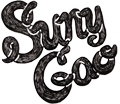
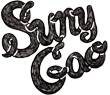
about page

diff --git a/www/styles/master.css b/www/styles/master.css
@@ -17,7 +17,7 @@
 
 .truncate { overflow: hidden; text-overflow: ellipsis; white-space: nowrap; }
 
-.buttons-sprite, #menu h1 a, #menu #email, #menu #linked_in, #main-content #projects .description h3 a span, #main-content #projects .description h3 a:hover span { background: url('../media/images/buttons-s6d212eed9d.png') no-repeat; }
+.buttons-sprite, #menu h1 a, #menu #email, #menu #linked_in, #main-content #projects .description h3 a span, #main-content #projects .description h3 a:hover span { background: url('../media/images/buttons-se1d3f7d20a.png') no-repeat; }
 
 /* http://meyerweb.com/eric/tools/css/reset/  v2.0 | 20110126 License: none (public domain)
 */
@@ -36,7 +36,7 @@ blockquote:before, blockquote:after, q:before, q:after { content: ''; content: n
 
 table { border-collapse: collapse; border-spacing: 0; }
 
-a { text-decoration: none; }
+a { font-family: "Crimson Text", serif; font-weight: 700; color: #fff; text-decoration: none; }
 
 body, html, #page-wrapper, #global-header { height: 100%; }
 
@@ -46,17 +46,17 @@ body ::selection { background: #6fbbda; }
 body, #menu { min-height: 690px; }
 
 #menu { background: transparent url(../media/images/bkg_menu.png) repeat; height: 100%; left: 0; padding: 0px 10px; z-index: 2; position: absolute; width: 110px; }
-#menu h1 a { background-position: 0 0; width: 120px; height: 104px; cursor: pointer; margin: 20px 0 0 -2px; }
+#menu h1 a { background-position: 0 0; width: 110px; height: 95px; cursor: pointer; margin: 20px auto 0; }
 #menu #nav { text-align: right; }
 #menu #nav a { font-family: "Crimson Text", serif; font-weight: 600; display: block; font-size: 123%; color: #242424; margin-top: 25px; }
 #menu #nav li li a { color: #777; font-size: 93%; margin-top: 15px; line-height: 130%; }
 #menu #nav li li a:hover { color: #242424; }
 #menu #back_to_menu a { background: transparent url(../media/images/bkg_menu.png) repeat; display: block; height: 80px; left: 160px; margin-top: -40px; top: 50%; position: absolute; text-align: left; text-indent: -9999px; width: 33px; }
 #menu #contact { float: right; width: 65px; }
-#menu #email { background-position: 0 -138px; width: 26px; height: 20px; cursor: pointer; float: left; }
-#menu #email:hover, #menu #email.mail_hover, #menu #email.mail-hover { background-position: 0 -118px; }
-#menu #linked_in { background-position: 0 -172px; width: 26px; height: 20px; cursor: pointer; float: right; }
-#menu #linked_in:hover, #menu #linked_in.linkedin_hover, #menu #linked_in.linkedin-hover { background-position: 0 -192px; }
+#menu #email { background-position: 0 -129px; width: 26px; height: 20px; cursor: pointer; float: left; }
+#menu #email:hover, #menu #email.mail_hover, #menu #email.mail-hover { background-position: 0 -109px; }
+#menu #linked_in { background-position: 0 -163px; width: 26px; height: 20px; cursor: pointer; float: right; }
+#menu #linked_in:hover, #menu #linked_in.linkedin_hover, #menu #linked_in.linkedin-hover { background-position: 0 -183px; }
 
 #main-content { color: #c2c2c2; height: 100%; overflow-y: hidden; width: 100%; }
 #main-content #projects { height: 100%; overflow: hidden; padding: 0 0 0 155px; position: relative; }
@@ -72,11 +72,17 @@ body, #menu { min-height: 690px; }
 #main-content #projects .description h3 { display: inline-block; font-size: 93%; margin-bottom: 50px; text-transform: uppercase; }
 #main-content #projects .description h3 span { display: inline-block; margin: 0 8px; }
 #main-content #projects .description h3 a { color: #c2c2c2; display: inline-block; }
-#main-content #projects .description h3 a span { background-position: 0 -104px; width: 24px; height: 14px; cursor: pointer; display: inline-block; position: relative; margin-left: 3px; top: 3px; }
-#main-content #projects .description h3 a span:hover, #main-content #projects .description h3 a span.arrow_hover, #main-content #projects .description h3 a span.arrow-hover { background-position: 0 -158px; }
+#main-content #projects .description h3 a span { background-position: 0 -95px; width: 24px; height: 14px; cursor: pointer; display: inline-block; position: relative; margin-left: 3px; top: 3px; }
+#main-content #projects .description h3 a span:hover, #main-content #projects .description h3 a span.arrow_hover, #main-content #projects .description h3 a span.arrow-hover { background-position: 0 -149px; }
 #main-content #projects .description h3 a:hover { color: #fff; }
-#main-content #projects .description h3 a:hover span { background-position: 0 -158px; width: 24px; height: 14px; cursor: pointer; display: inline-block; }
+#main-content #projects .description h3 a:hover span { background-position: 0 -149px; width: 24px; height: 14px; cursor: pointer; display: inline-block; }
 #main-content #projects .description p { font-size: 108%; line-height: 140%; margin-bottom: 15px; }
+
+.about { min-height: 0px; }
+.about #menu { min-height: 0px; }
+.about #main-content { height: auto; padding: 80px 0 0 155px; position: relative; width: 700px; }
+.about h2 { font-family: "Crimson Text", serif; font-weight: 700; font-size: 260%; letter-spacing: 1px; margin-bottom: 21px; }
+.about p { font-size: 126%; line-height: 160%; margin-bottom: 30px; }
 
 .overlay { position: fixed; top: 0; left: 0; width: 100%; height: 100%; background: rgba(0, 0, 0, 0.75); z-index: 998; }
 

diff --git a/sass/_layout.scss b/sass/_layout.scss
@@ -1,4 +1,4 @@
-a { text-decoration: none; }
+a { @include CrimsonBold(); color: #fff; text-decoration: none; }
 body,
 html,
 #page-wrapper,
@@ -16,7 +16,7 @@ $textcolor: #c2c2c2;
 
 #menu { background: transparent url(../media/images/bkg_menu.png) repeat; height: 100%; left: 0; padding: 0px 10px; z-index: 2; position: absolute; width: 110px; 
 	h1 { 
-		a { @include btn(suny); margin: 20px 0 0 -2px;  }
+		a { @include btn(suny); margin: 20px auto 0;  }
 	}
 	
 	#nav { text-align: right;
@@ -62,7 +62,13 @@ $textcolor: #c2c2c2;
 			p { font-size: 108%; line-height: 140%; margin-bottom: 15px; }
 		}
 	}
+}
 
+.about { min-height: 0px;
+	#menu { min-height: 0px; }
+	#main-content { height: auto; padding: 80px 0 0 155px; position: relative; width: 700px; }
+	h2 { @include CrimsonBold(); font-size: 260%; letter-spacing: 1px; margin-bottom: 21px; }
+	p { font-size: 126%; line-height: 160%; margin-bottom: 30px; }
 }
 
 #global-footer {

diff --git a/www/php/view/about.php b/www/php/view/about.php
@@ -1,5 +1,10 @@
 <?php include DIR_TMPL.'/header.php'; ?>
 
-<h1><?php echo $content; ?></h1>
+<h2>Hi.</h2>
+<p>Suny was born in Beijing, China and now lives in San Francisco, with a couple detours in between. In 2008, after graduating from the University of Colorado, she got a job in the art department at <a href="http://cpbgroup.com/" target="_blank">CPB</a>, where she became an expert at wielding both X-acto knives and the pen tool, before joining the developer team.</p>
+
+<p>She specializes in all things front-end, especially responsive design and media queries, HTML5 and CSS3. She has collaborated with large teams and tiny teams and has worked with many server-side technologies including PHP, Node.JS, Rails, and .NET.</p>
+
+<p>She also draws comics <a href="http://sunygao.tumblr.com" target="_blank">here</a>.</p>
 
 <?php include DIR_TMPL.'/footer.php'; ?>

diff --git a/www/php/template/header.php b/www/php/template/header.php
@@ -59,6 +59,7 @@
 <body class="<?php if (isset($class)) echo $class; ?>">
 	<?php 
 		$items = Content::getInstance()->getItems();
+		//$item = $items -> item;
 	?>
 	<div id="page-wrapper">
 		<header id="menu">
@@ -69,7 +70,8 @@
 				</li> -->
 				<li>
 					<a href="./">Projects</a>
-					<?php if (isset($settings->page) && $settings->page == 'home') {
+
+					<?php if (isset($settings->page) && $settings->page == 'Home') {
 						$links = '';
 
 						foreach($items as $item) {

diff --git a/www/php/controller/about.php b/www/php/controller/about.php
@@ -1,6 +1,6 @@
 <?php
 
-$settings->setPage("Your Title Here");
+$settings->setPage("About");
 $class = "about"; 
 $content = 'SG example content for about';
 

diff --git a/www/php/controller/index.php b/www/php/controller/index.php
@@ -1,6 +1,6 @@
 <?php
 
-$settings->setPage("home");
+$settings->setPage("Home");
 $class = "home"; 
 $content = 'SG example content';
 
